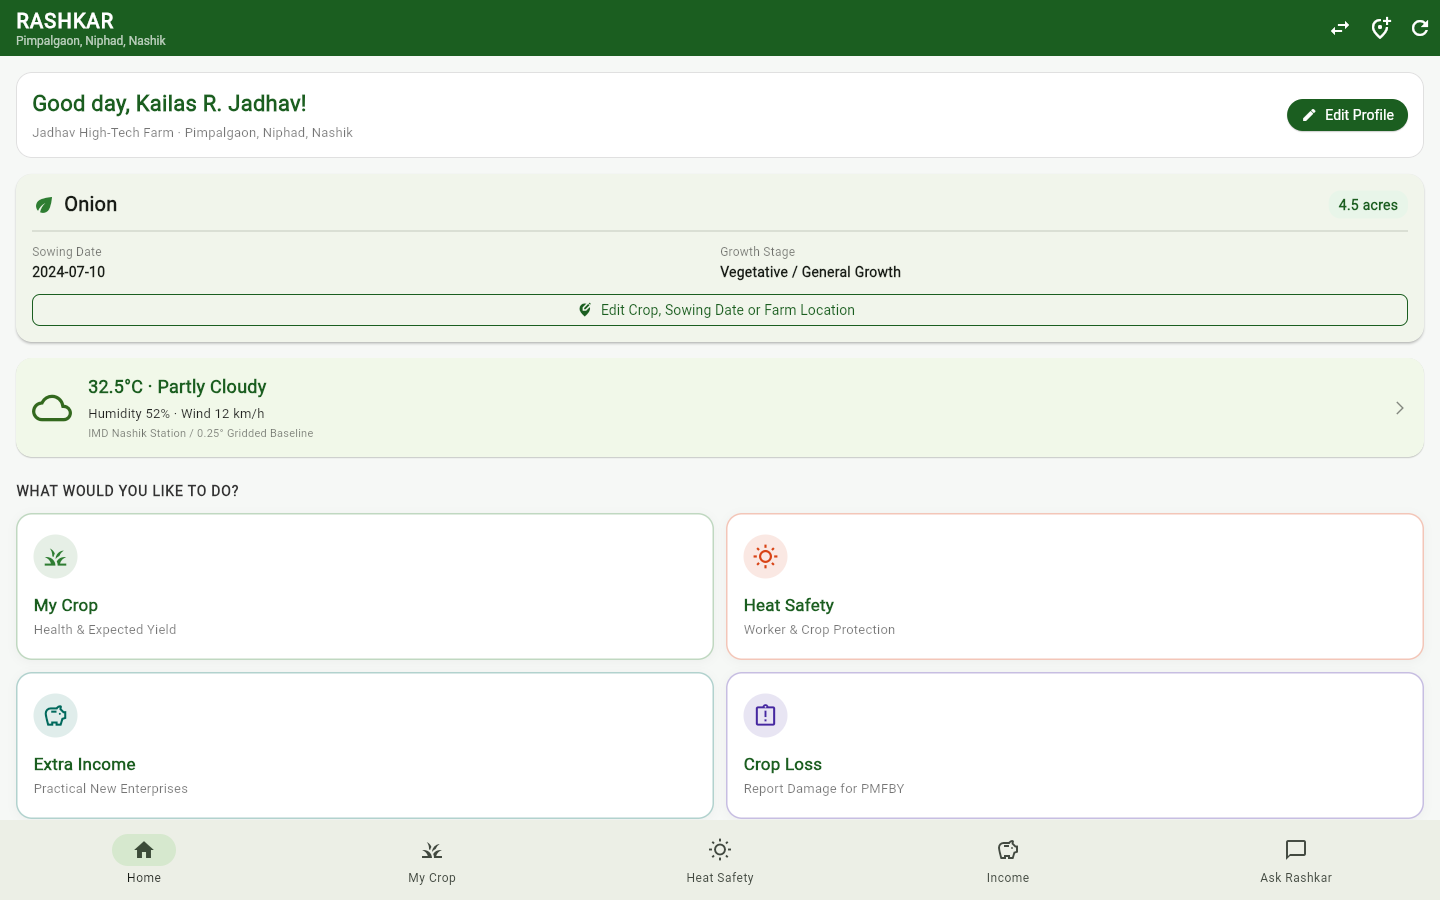
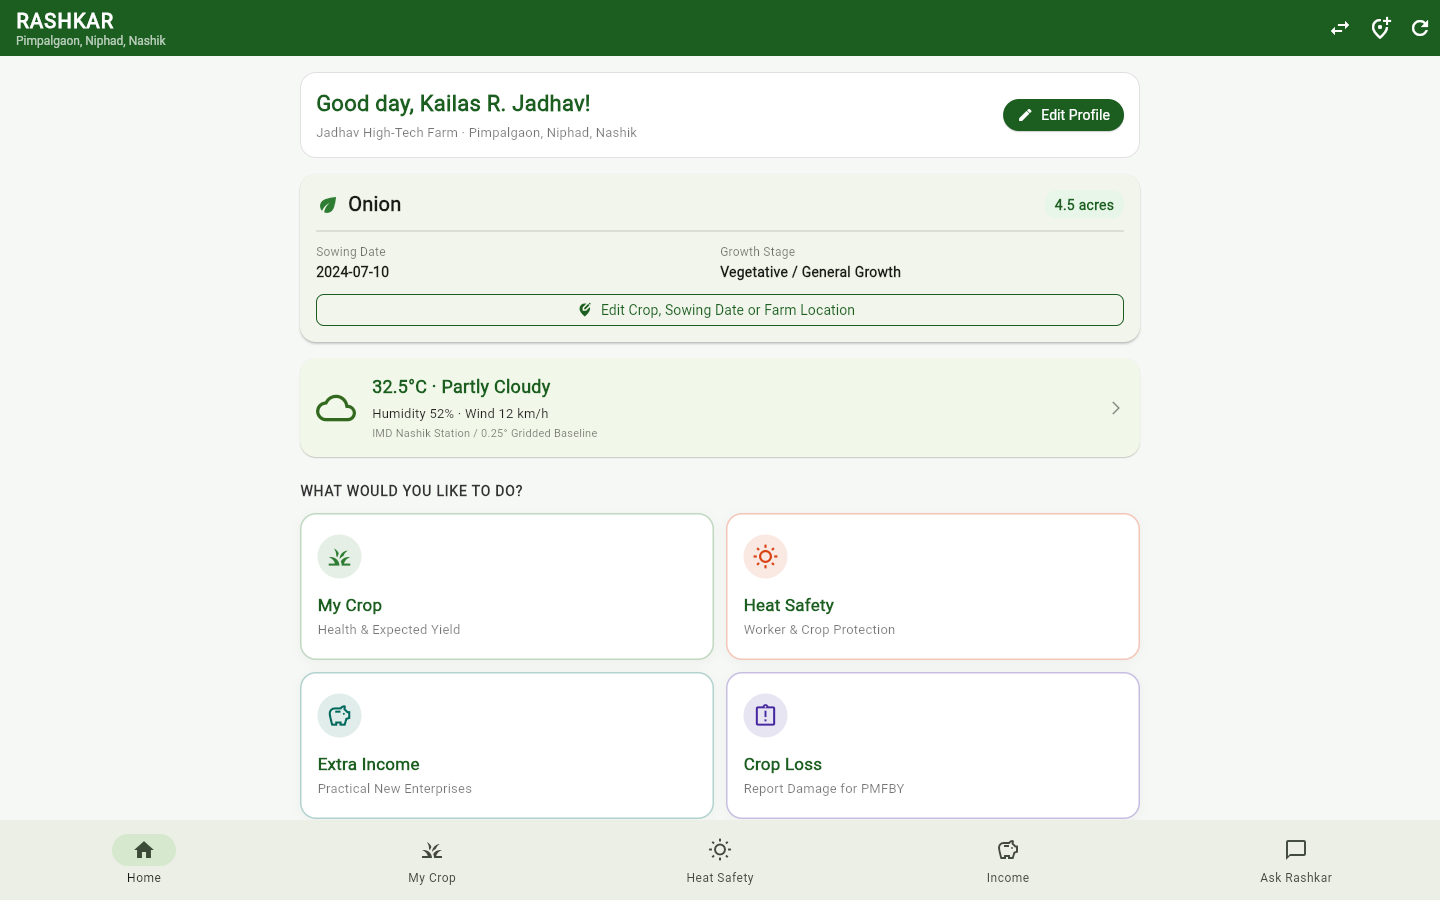
feat(ui): implement responsive layout constraints across all screens per flutter-build-responsive-layout skill

diff --git a/flutter_client/lib/screens/home_screen.dart b/flutter_client/lib/screens/home_screen.dart
@@ -190,41 +190,46 @@ class _HomeScreenState extends State<HomeScreen> {
                   child: SingleChildScrollView(
                     physics: const AlwaysScrollableScrollPhysics(),
                     padding: const EdgeInsets.all(16.0),
-                    child: Column(
-                      crossAxisAlignment: CrossAxisAlignment.stretch,
-                      children: [
-                        _buildGreetingCard(summary),
-                        const SizedBox(height: 16),
-                        _buildFarmGlanceCard(summary),
-                        const SizedBox(height: 16),
-                        _buildWeatherSummaryCard(summary),
-                        const SizedBox(height: 24),
-                        const Text(
-                          'WHAT WOULD YOU LIKE TO DO?',
-                          style: TextStyle(fontSize: 14, fontWeight: FontWeight.bold, color: Color(0xFF333333), letterSpacing: 0.8),
+                    child: Center(
+                      child: ConstrainedBox(
+                        constraints: const BoxConstraints(maxWidth: 840),
+                        child: Column(
+                          crossAxisAlignment: CrossAxisAlignment.stretch,
+                          children: [
+                            _buildGreetingCard(summary),
+                            const SizedBox(height: 16),
+                            _buildFarmGlanceCard(summary),
+                            const SizedBox(height: 16),
+                            _buildWeatherSummaryCard(summary),
+                            const SizedBox(height: 24),
+                            const Text(
+                              'WHAT WOULD YOU LIKE TO DO?',
+                              style: TextStyle(fontSize: 14, fontWeight: FontWeight.bold, color: Color(0xFF333333), letterSpacing: 0.8),
+                            ),
+                            const SizedBox(height: 12),
+                            _buildFeatureGrid(),
+                            const SizedBox(height: 20),
+                            _buildAskRashkarBanner(),
+                            const SizedBox(height: 16),
+                            if (summary.activeAlerts.isNotEmpty) ...[
+                              const Text(
+                                "TODAY'S IMPORTANT ADVISORIES",
+                                style: TextStyle(fontSize: 14, fontWeight: FontWeight.bold, color: Color(0xFF333333), letterSpacing: 0.8),
+                              ),
+                              const SizedBox(height: 8),
+                              ...summary.activeAlerts.map((a) => _buildAlertItem(a)),
+                              const SizedBox(height: 16),
+                            ],
+                            Center(
+                              child: Text(
+                                'Data updated: ${summary.dataLastUpdated}',
+                                style: const TextStyle(fontSize: 12, color: Colors.black54),
+                              ),
+                            ),
+                            const SizedBox(height: 20),
+                          ],
                         ),
-                        const SizedBox(height: 12),
-                        _buildFeatureGrid(),
-                        const SizedBox(height: 20),
-                        _buildAskRashkarBanner(),
-                        const SizedBox(height: 16),
-                        if (summary.activeAlerts.isNotEmpty) ...[
-                          const Text(
-                            "TODAY'S IMPORTANT ADVISORIES",
-                            style: TextStyle(fontSize: 14, fontWeight: FontWeight.bold, color: Color(0xFF333333), letterSpacing: 0.8),
-                          ),
-                          const SizedBox(height: 8),
-                          ...summary.activeAlerts.map((a) => _buildAlertItem(a)).toList(),
-                          const SizedBox(height: 16),
-                        ],
-                        Center(
-                          child: Text(
-                            'Data updated: ${summary.dataLastUpdated}',
-                            style: const TextStyle(fontSize: 12, color: Colors.black54),
-                          ),
-                        ),
-                        const SizedBox(height: 20),
-                      ],
+                      ),
                     ),
                   ),
                 ),

diff --git a/flutter_client/lib/screens/my_crop_screen.dart b/flutter_client/lib/screens/my_crop_screen.dart
@@ -131,33 +131,38 @@ class _MyCropScreenState extends State<MyCropScreen> {
                   ? const Center(child: Text('Unable to load crop assessment.'))
                   : SingleChildScrollView(
                       padding: const EdgeInsets.all(16.0),
-                      child: Column(
-                        crossAxisAlignment: CrossAxisAlignment.stretch,
-                        children: [
-                          // A. My Crop Card
-                          _buildCropSummaryCard(),
-                          const SizedBox(height: 16),
+                      child: Center(
+                        child: ConstrainedBox(
+                          constraints: const BoxConstraints(maxWidth: 840),
+                          child: Column(
+                            crossAxisAlignment: CrossAxisAlignment.stretch,
+                            children: [
+                              // A. My Crop Card
+                              _buildCropSummaryCard(),
+                              const SizedBox(height: 16),
 
-                          // B. Crop Condition Card
-                          _buildConditionCard(),
-                          const SizedBox(height: 16),
+                              // B. Crop Condition Card
+                              _buildConditionCard(),
+                              const SizedBox(height: 16),
 
-                          // C. Main Concerns
-                          _buildMainConcernsCard(),
-                          const SizedBox(height: 16),
+                              // C. Main Concerns
+                              _buildMainConcernsCard(),
+                              const SizedBox(height: 16),
 
-                          // D. What Should I Do? (Actionable Steps)
-                          _buildRecommendationsCard(),
-                          const SizedBox(height: 16),
+                              // D. What Should I Do? (Actionable Steps)
+                              _buildRecommendationsCard(),
+                              const SizedBox(height: 16),
 
-                          // E. Past District Crop Performance
-                          _buildPastPerformanceCard(),
-                          const SizedBox(height: 16),
+                              // E. Past District Crop Performance
+                              _buildPastPerformanceCard(),
+                              const SizedBox(height: 16),
 
-                          // F. Progressive Disclosure: Technical & Scientific Details
-                          _buildTechnicalDetailsExpansion(),
-                          const SizedBox(height: 24),
-                        ],
+                              // F. Progressive Disclosure: Technical & Scientific Details
+                              _buildTechnicalDetailsExpansion(),
+                              const SizedBox(height: 24),
+                            ],
+                          ),
+                        ),
                       ),
                     ),
     );

diff --git a/flutter_client/lib/screens/crop_loss_screen.dart b/flutter_client/lib/screens/crop_loss_screen.dart
@@ -180,10 +180,13 @@ class _CropLossScreenState extends State<CropLossScreen> with SingleTickerProvid
 
     return SingleChildScrollView(
       padding: const EdgeInsets.all(16.0),
-      child: Column(
-        crossAxisAlignment: CrossAxisAlignment.stretch,
-        children: [
-          // Header Card
+      child: Center(
+        child: ConstrainedBox(
+          constraints: const BoxConstraints(maxWidth: 840),
+          child: Column(
+            crossAxisAlignment: CrossAxisAlignment.stretch,
+            children: [
+              // Header Card
           Card(
             elevation: 2,
             shape: RoundedRectangleBorder(borderRadius: BorderRadius.circular(16)),
@@ -504,7 +507,9 @@ class _CropLossScreenState extends State<CropLossScreen> with SingleTickerProvid
             ),
           ),
           const SizedBox(height: 20),
-        ],
+            ],
+          ),
+        ),
       ),
     );
   }
@@ -545,15 +550,18 @@ class _CropLossScreenState extends State<CropLossScreen> with SingleTickerProvid
         final verifiedLoss = (fusion['verified_damage_pct'] as num?)?.toDouble() ?? c.damageEstimatePct;
         final confidence = (fusion['confidence_score'] as num?)?.toDouble() ?? 85.0;
 
-        return Card(
-          elevation: 1,
-          margin: const EdgeInsets.only(bottom: 12),
-          shape: RoundedRectangleBorder(borderRadius: BorderRadius.circular(14)),
-          child: Padding(
-            padding: const EdgeInsets.all(16),
-            child: Column(
-              crossAxisAlignment: CrossAxisAlignment.start,
-              children: [
+        return Center(
+          child: ConstrainedBox(
+            constraints: const BoxConstraints(maxWidth: 840),
+            child: Card(
+              elevation: 1,
+              margin: const EdgeInsets.only(bottom: 12),
+              shape: RoundedRectangleBorder(borderRadius: BorderRadius.circular(14)),
+              child: Padding(
+                padding: const EdgeInsets.all(16),
+                child: Column(
+                  crossAxisAlignment: CrossAxisAlignment.start,
+                  children: [
                 Row(
                   mainAxisAlignment: MainAxisAlignment.spaceBetween,
                   children: [
@@ -628,8 +636,10 @@ class _CropLossScreenState extends State<CropLossScreen> with SingleTickerProvid
               ],
             ),
           ),
-        );
-      },
+        ),
+      ),
     );
-  }
+  },
+);
+}
 }

diff --git a/flutter_client/lib/screens/heat_safety_screen.dart b/flutter_client/lib/screens/heat_safety_screen.dart
@@ -223,10 +223,13 @@ class _HeatSafetyScreenState extends State<HeatSafetyScreen> with SingleTickerPr
 
     return SingleChildScrollView(
       padding: const EdgeInsets.all(16.0),
-      child: Column(
-        crossAxisAlignment: CrossAxisAlignment.stretch,
-        children: [
-          // SECTION A: Today's Outdoor Work Conditions (Main Card)
+      child: Center(
+        child: ConstrainedBox(
+          constraints: const BoxConstraints(maxWidth: 840),
+          child: Column(
+            crossAxisAlignment: CrossAxisAlignment.stretch,
+            children: [
+              // SECTION A: Today's Outdoor Work Conditions (Main Card)
           Card(
             elevation: 2,
             shape: RoundedRectangleBorder(
@@ -613,8 +616,10 @@ class _HeatSafetyScreenState extends State<HeatSafetyScreen> with SingleTickerPr
               ],
             ),
           ),
-          const SizedBox(height: 20),
-        ],
+              const SizedBox(height: 20),
+            ],
+          ),
+        ),
       ),
     );
   }
@@ -647,10 +652,13 @@ class _HeatSafetyScreenState extends State<HeatSafetyScreen> with SingleTickerPr
 
     return SingleChildScrollView(
       padding: const EdgeInsets.all(16.0),
-      child: Column(
-        crossAxisAlignment: CrossAxisAlignment.stretch,
-        children: [
-          // SECTION A: Crop Heat Status (Main Card)
+      child: Center(
+        child: ConstrainedBox(
+          constraints: const BoxConstraints(maxWidth: 840),
+          child: Column(
+            crossAxisAlignment: CrossAxisAlignment.stretch,
+            children: [
+              // SECTION A: Crop Heat Status (Main Card)
           Card(
             elevation: 2,
             shape: RoundedRectangleBorder(
@@ -918,8 +926,10 @@ class _HeatSafetyScreenState extends State<HeatSafetyScreen> with SingleTickerPr
               ],
             ),
           ),
-          const SizedBox(height: 20),
-        ],
+              const SizedBox(height: 20),
+            ],
+          ),
+        ),
       ),
     );
   }

diff --git a/flutter_client/lib/screens/extra_income_screen.dart b/flutter_client/lib/screens/extra_income_screen.dart
@@ -155,10 +155,13 @@ class _ExtraIncomeScreenState extends State<ExtraIncomeScreen> {
           ? const Center(child: CircularProgressIndicator(color: Color(0xFF2E7D32)))
           : SingleChildScrollView(
               padding: const EdgeInsets.all(16.0),
-              child: Column(
-                crossAxisAlignment: CrossAxisAlignment.stretch,
-                children: [
-                  // SECTION A: Friendly Introduction (Main Card)
+              child: Center(
+                child: ConstrainedBox(
+                  constraints: const BoxConstraints(maxWidth: 840),
+                  child: Column(
+                    crossAxisAlignment: CrossAxisAlignment.stretch,
+                    children: [
+                      // SECTION A: Friendly Introduction (Main Card)
                   Card(
                     elevation: 2,
                     shape: RoundedRectangleBorder(borderRadius: BorderRadius.circular(16)),
@@ -326,6 +329,8 @@ class _ExtraIncomeScreenState extends State<ExtraIncomeScreen> {
                 ],
               ),
             ),
+          ),
+        ),
     );
   }
 

diff --git a/flutter_client/lib/screens/ask_rashkar_screen.dart b/flutter_client/lib/screens/ask_rashkar_screen.dart
@@ -144,9 +144,12 @@ class _AskRashkarScreenState extends State<AskRashkarScreen> {
         backgroundColor: const Color(0xFF1B5E20),
         foregroundColor: Colors.white,
       ),
-      body: Column(
-        children: [
-          // Suggested prompts chips
+      body: Center(
+        child: ConstrainedBox(
+          constraints: const BoxConstraints(maxWidth: 840),
+          child: Column(
+            children: [
+              // Suggested prompts chips
           Container(
             height: 52,
             padding: const EdgeInsets.symmetric(vertical: 8),
@@ -245,15 +248,17 @@ class _AskRashkarScreenState extends State<AskRashkarScreen> {
                       icon: const Icon(Icons.send, color: Colors.white, size: 20),
                       onPressed: () => _sendMessage(_textController.text),
                     ),
-                  )
+                  ),
                 ],
               ),
             ),
-          )
+          ),
         ],
       ),
-    );
-  }
+    ),
+  ),
+);
+}
 
   Widget _buildMessageBubble(AssistantChatMessage m, bool isUser) {
     return Align(
